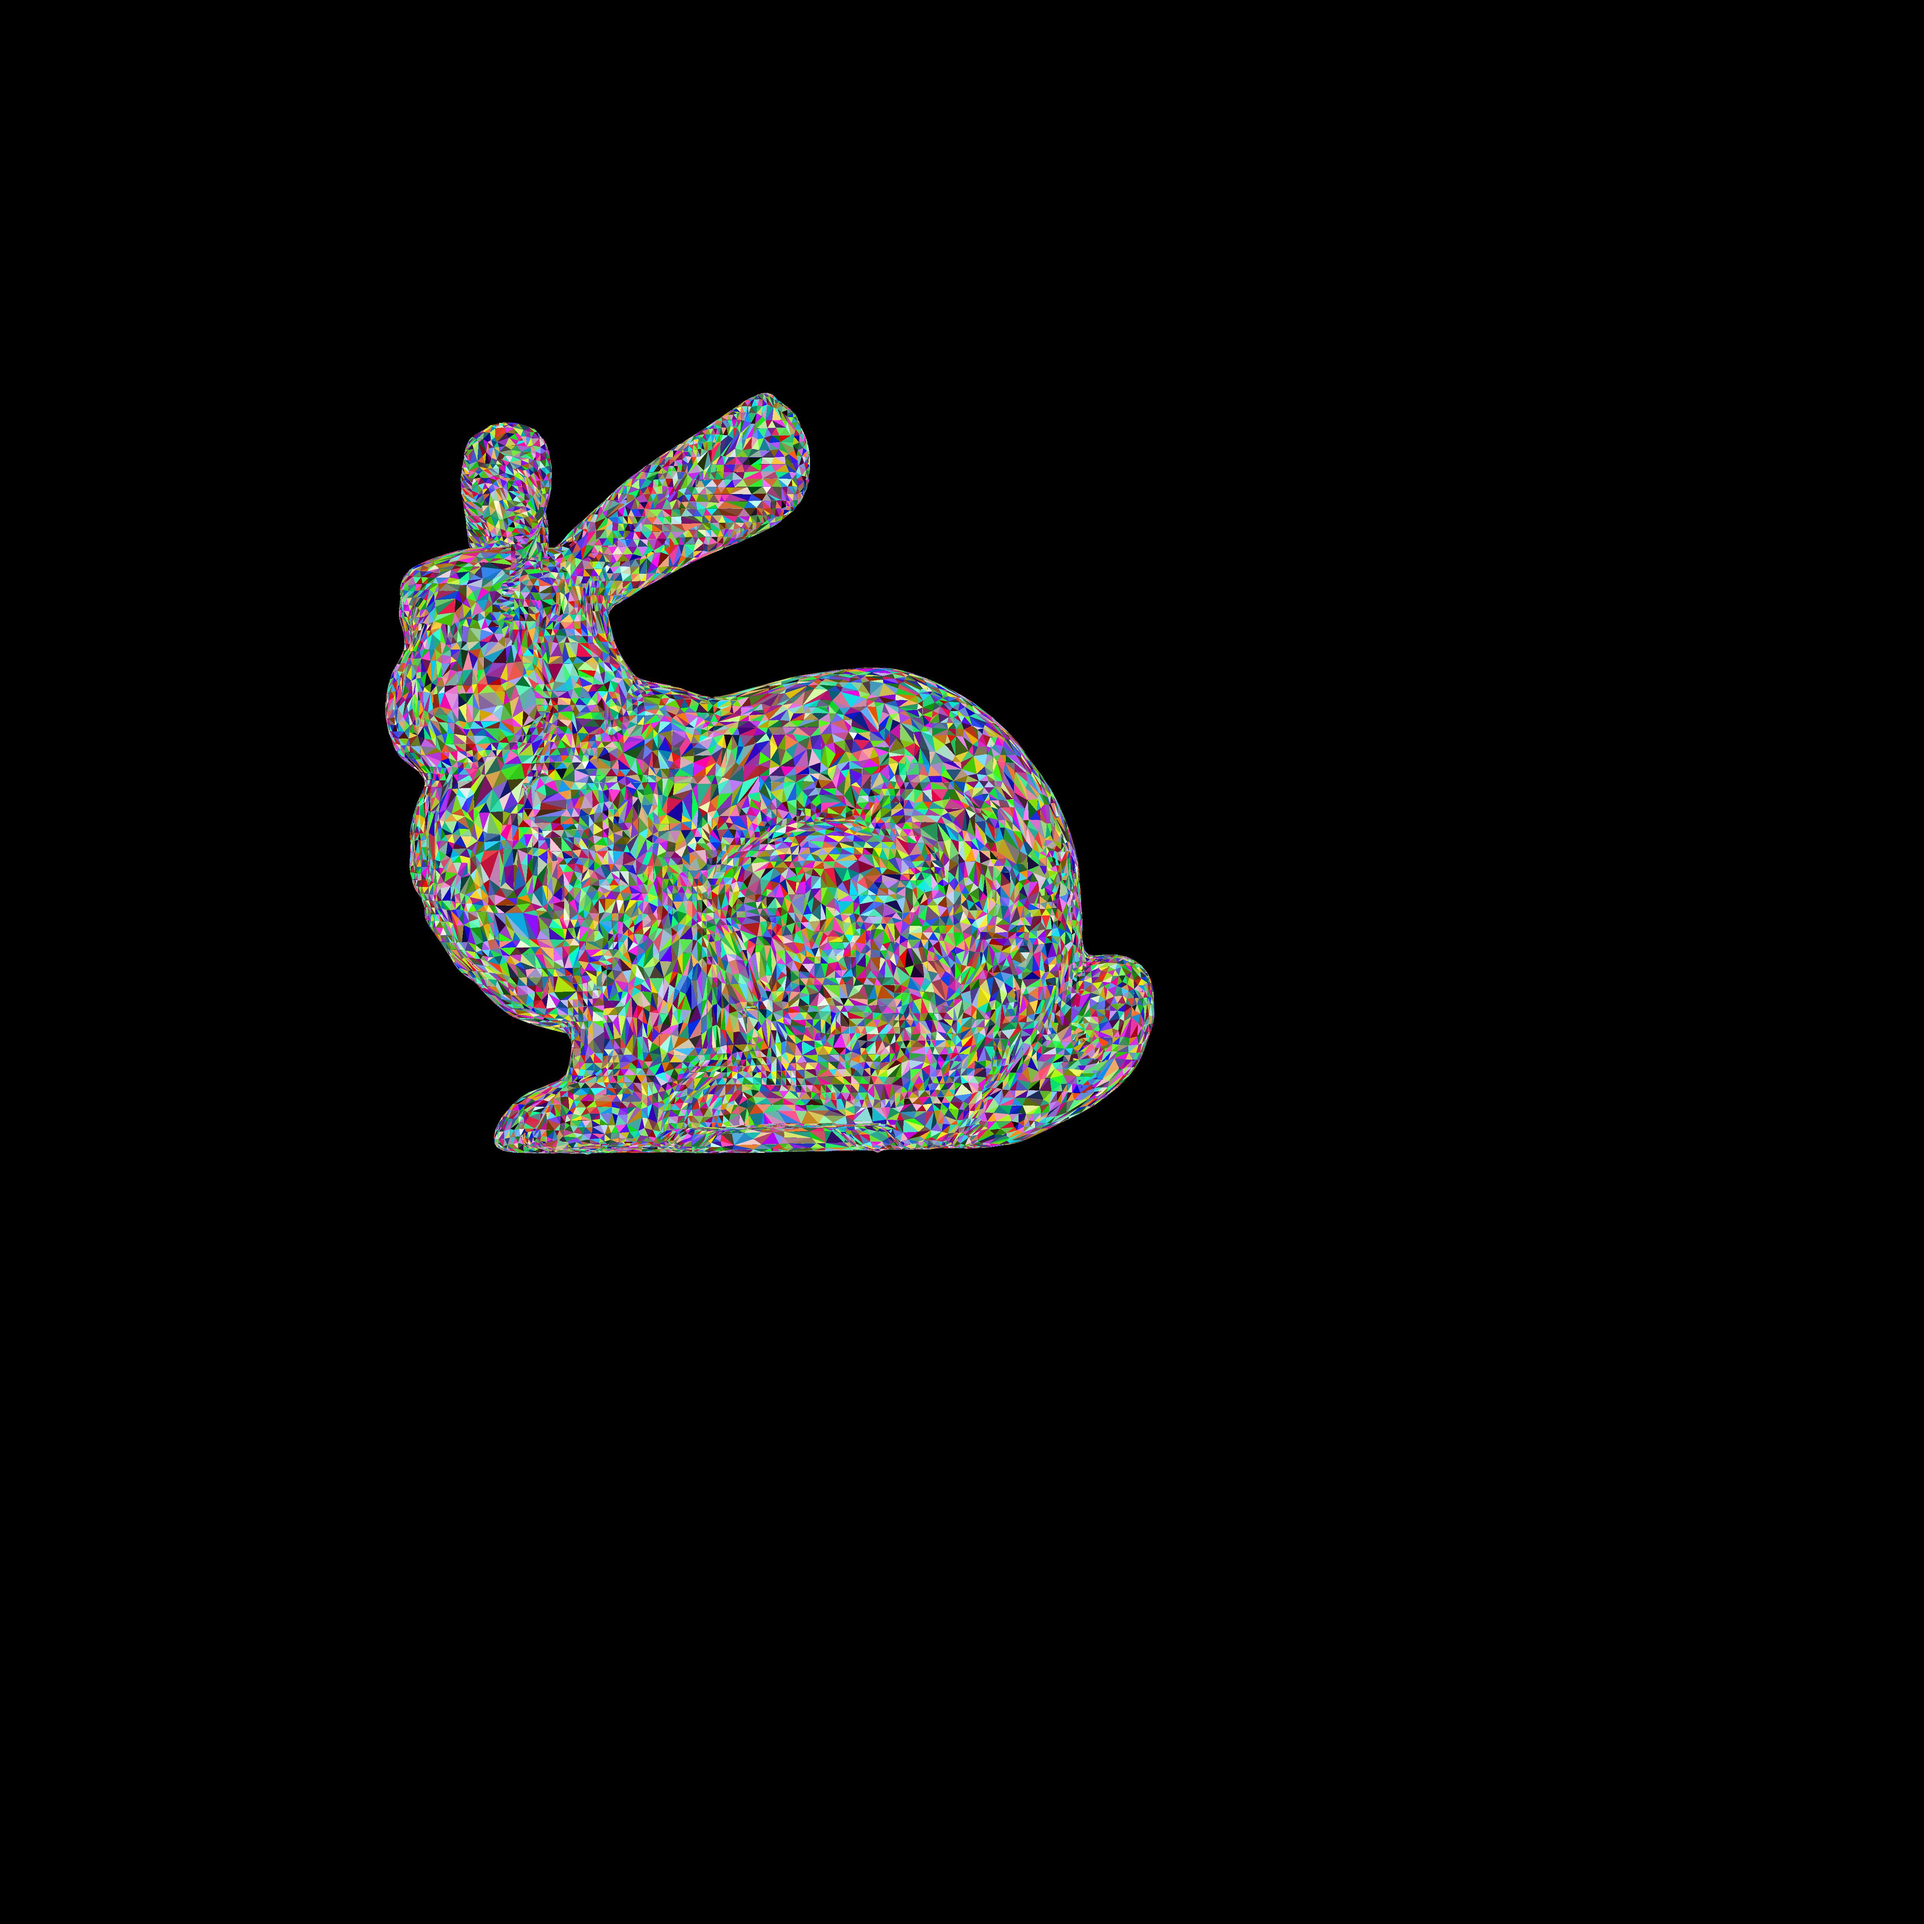
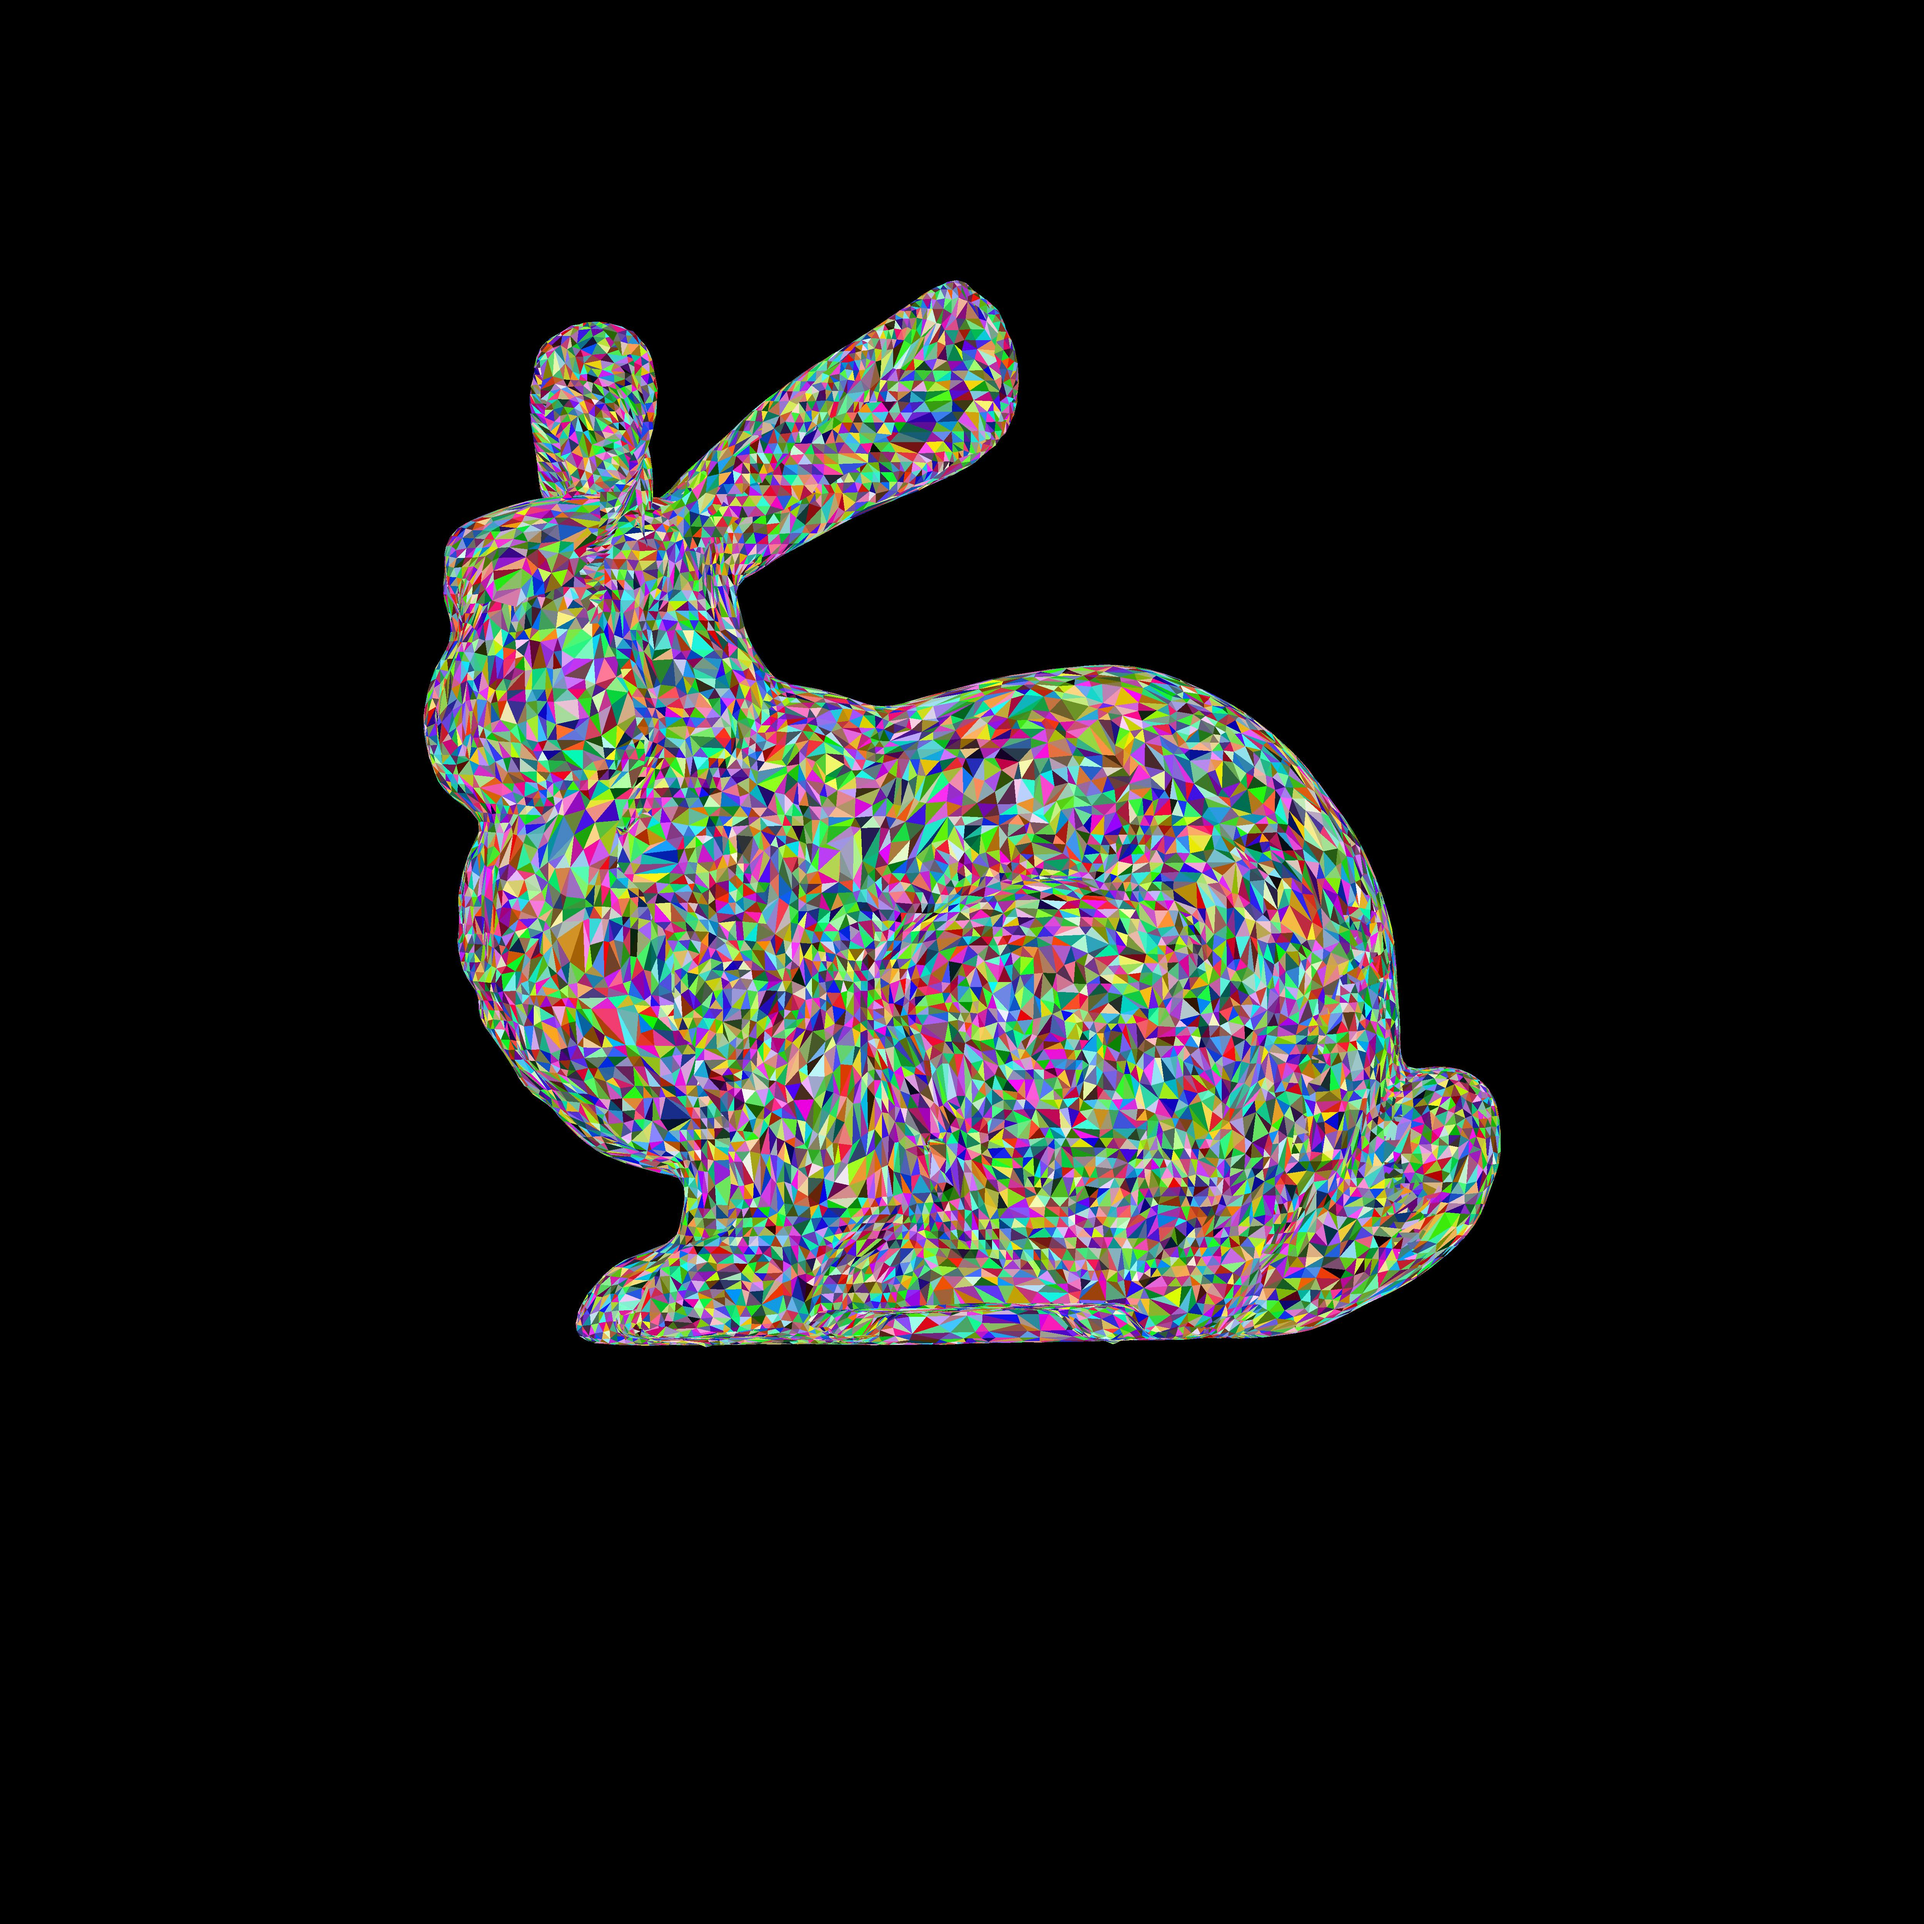
Initial commit

Changed region(s): [[0.1872, 0.1248, 0.78, 0.7176]]

diff --git a/tasks8-11.py b/tasks8-11.py
@@ -38,7 +38,7 @@ def draw_polygons(image):
         triangle = []
         for point in polygon:
             x, y = parser.vertex_list[point - 1]
-            triangle.append((20000 * x + 2000, 20000 * y + 2000))
+            triangle.append((28000 * x + 2500, 28000 * y + 1500))
         print(triangle)
         draw_triangles(triangle[0][0], triangle[0][1], triangle[1][0], triangle[1][1], triangle[2][0], triangle[2][1], image, (np.random.randint(256),np.random.randint(256),np.random.randint(256)), size)
     image.save("images/PozhiloyRabbitPolygonsTriangles.jpg", "JPEG")

diff --git a/tasks12-15.py b/tasks12-15.py
@@ -46,7 +46,7 @@ def draw_polygons(image):
         triangle = []
         for point in polygon:
             x, y, z = parser.vertex_list[point - 1]
-            triangle.append((20000 * x + 2000, 20000 * y + 2000, 20000 * z + 2000))
+            triangle.append((28000 * x + 2500, 28000 * y + 1500, 20000 * z + 2000))
         n = count_norm(triangle)
         cos = get_cos(n)
         if cos < 0:
